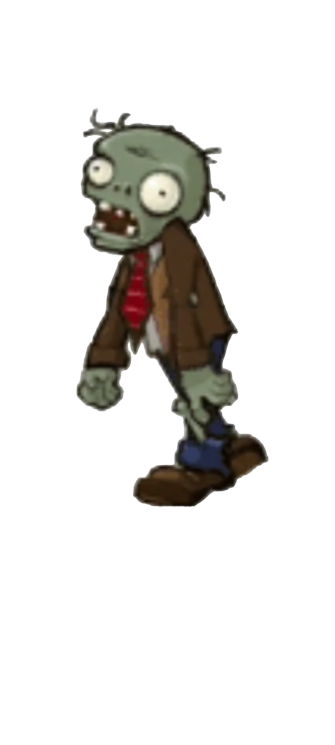
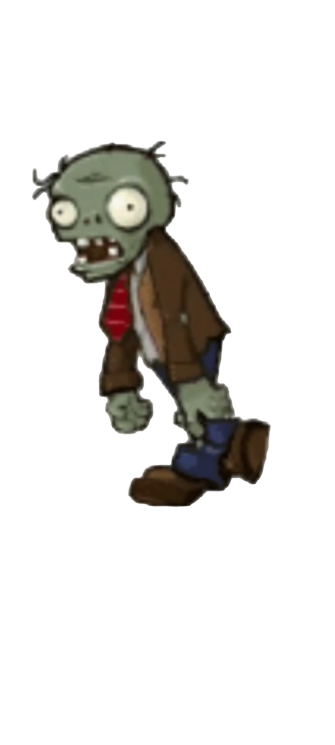
animation of zombie part 2

Changed region(s): [[0.0896, 0.1235, 0.806, 0.6792], [0.3881, 0.6174, 0.4776, 0.6792]]

diff --git a/Background.cpp b/Background.cpp
@@ -2,9 +2,7 @@
 
 void Background::paint_back_ground()
 {
-    sf::Clock movementClock; 
-    float zombieX = 950;      
-    float zombieSpeed = 0.5f;
+
     Texture backgroundTexture;
     if (!backgroundTexture.loadFromFile("photo/background.png"))
     {
@@ -13,6 +11,26 @@ void Background::paint_back_ground()
     }
     Sprite backgroundSprite(backgroundTexture);
     RenderWindow window(VideoMode(1035, 600), "My Game");
+    float zombieX = 950;
+    vector<float> yPositions = {5.0f,
+                                80.0f,
+                                180.0f,
+                                270.0f,
+                                380.0f};
+    float randomY = yPositions[rand() % yPositions.size()];
+    Clock movementClock;
+    float zombieSpeed = 0.1f;
+    vector<Texture> zombieTextures;
+    for (int i = 1; i <= 19; ++i)
+    {
+        Texture texture;
+        if (!texture.loadFromFile("photo/zombie/image" + to_string(i) + ".png"))
+        {
+            cerr << "Error loading zombie image " << i << "!" << endl;
+            return;
+        }
+        zombieTextures.push_back(texture);
+    }
     while (window.isOpen())
     {
         Event event;
@@ -24,31 +42,25 @@ void Background::paint_back_ground()
             }
         }
         window.draw(backgroundSprite);
-        Texture zombieTexture;
-        if (!zombieTexture.loadFromFile("photo/zombie/image1.png"))
-        {
-            cerr << "Error loading zombie image!" << endl;
-            return;
-        }
-
-        Sprite zombieSprite(zombieTexture);
-        zombieSprite.setScale(0.35f, 0.35f);
-        zombieX -= zombieSpeed; 
-        movementClock.restart(); 
-        zombieSprite.setPosition(zombieX, 260); 
-        window.draw(zombieSprite);
 
         for (const Zombies &zombie : zombie_list)
         {
         }
 
+        Sprite zombieSprite(zombieTextures[static_cast<int>(movementClock.getElapsedTime().asMilliseconds() / 100) % 19]);
+        zombieSprite.setPosition(zombieX, 80);
+        zombieSprite.setScale(0.35f, 0.35f);
+        zombieX -= zombieSpeed;
+        window.draw(zombieSprite);
         window.display();
     }
 }
 
 void Background::add_zombie() {
-    /*zombie_list.push_back(new zombie());*/
-};
+
+}
+
+;
 int Background::play()
 {
     paint_back_ground();

diff --git a/Zombies.cpp b/Zombies.cpp
@@ -1,16 +1,11 @@
-#include "Moveable.hpp"
+#include "Zombies.hpp"
 
-/*Zombies::Zombies()
-{
-    step = -1;
-    x = +1000;
-    y = ((rand() * 5) / RAND_MAX);
-    damage_power = 1;
-    xlen = 10;
-    ylen = 10;
-    frame0_file_name = "Z1.JPG";
-    frame1_file_name = "Z2.JPG";
-    frame2_file_name = "Z3.JPG";
-    frame3_file_name = "Z4.JPG";
-    frame4_file_name = "Z5.JPG";
-}*/
+// Zombies::Zombies(int step, int x, int y, int damage_power, int xlen, int ylen)
+// {
+//     step = -1;
+//     x = +1000;
+//     y = ((rand() * 5) / RAND_MAX);
+//     damage_power = 1;
+//     xlen = 10;
+//     ylen = 10;
+// }

diff --git a/ZombiesAnimation.cpp b/ZombiesAnimation.cpp
@@ -3,7 +3,7 @@
 
 int main() {
     // Create the main window
-    sf::RenderWindow window(sf::VideoMode(400, 600), "SFML Animation");
+    sf::RenderWindow window(sf::VideoMode(800, 600), "SFML Animation");
 
     // Load images into textures
     std::vector<sf::Texture> textures(19);

diff --git a/Background.hpp b/Background.hpp
@@ -10,7 +10,6 @@ public:
     void paint_back_ground();
 
 private:
-    int xlen, ylen;
-    string image_file_name;
+
     vector<Zombies> zombie_list;
 };

diff --git a/Zombies.hpp b/Zombies.hpp
@@ -5,5 +5,5 @@
 class Zombies : public Moveable
 {
 public:
-    Zombies();
+    Zombies(int x, int y, int damage_power);
 };
